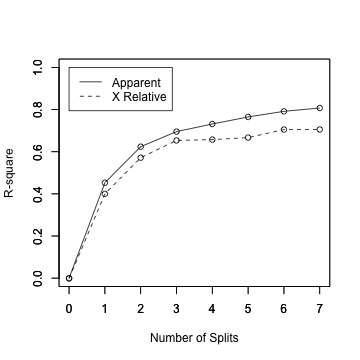
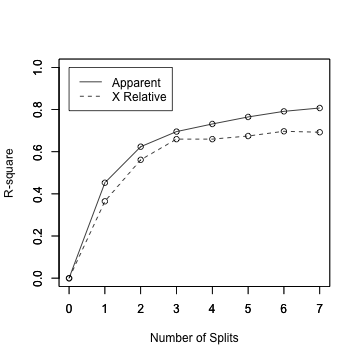
small edits

diff --git a/_posts/2015-12-28-ML-Trees-and_Ensembles.md b/_posts/2015-12-28-ML-Trees-and_Ensembles.md
@@ -11,6 +11,7 @@ categories: ['statistics', 'machine learning']
 
 
 ![tree](http://jnguyen92.github.io/nhuyhoa/figure/images/tree.png)
+
 A sample tree and how it cuts up the feature space. 
 
 # Decision Trees
@@ -40,16 +41,16 @@ Candidate splits on nominal features is quite simple. Features can be grouped by
 Candidate splits on numeric features requires a bit more thought. The numeric feature can be converted into categories by cutting/binning. The cutpoints could be defined as the median numeric value or any other threshold (depends on the algorithm).
 
 ### Information Gain
-Entropy (information) is defined as
+Entropy (information) is defined as <br>
 $$H(Y) = - \sum_{y \in values(Y)} P(y)log_2(P(y))$$
 
-The conditional entropy is defined as 
+The conditional entropy is defined as <br>
 $$H(Y \vert X) = \sum_{x \in values(Y)} P(X = x)H(Y \vert X = x)$$
 
-where
+where <br>
 $$H(Y \vert X = x) = - \sum_{y \in values(Y)} P(Y = y \vert X = x) log_2( P(Y = y \vert X = x) ) $$
 
-Information gain is then defined as
+Information gain is then defined as <br>
 $$InfoGain(D, S) = H_D(Y) - H_D(Y \vert S)$$
 
 The split $$S$$ that most reduces the conditional entropy of $$Y$$ for training set $$D$$ is chosen as the split.
@@ -68,7 +69,7 @@ In order to prevent overfitting, trees can be pruned (removal of internal nodes)
 
 **Another Algorithm:**
 
-Let 
+Let <br>
 $$ \sum^{\vert T \vert}_{m = 1} \sum_{i: x_i \in R_m} (y_i - \hat{y}_{R_m})^2 + \alpha \vert T \vert$$
 
 where $$\alpha >= 0$$, $$\vert T \vert$$ is the number of terminal nodes in subtree, $$R_m$$ is the subset of predictor space corresponding to the $$m^{th}$$ terminal node, and $$\hat{y}_{R_m}$$ is the mean of the training observations in $$R_m$$.
@@ -143,7 +144,7 @@ The tuning parameter $$i$$ can be chosen by cross-validation. Typically we choos
 Because it samples from all possible features, random forests can handle a large number of features. It can also reduce overfitting drastically.
 
 ## Boosting
-Boosting is a class of ensemble methods that sequentially produces multiple weak classifiers, where each classifier is dependent on the previous ones. Examples that are misclassfified by previous classifiers become more important in the next classifier. The classifiers can be combined to get
+Boosting is a class of ensemble methods that sequentially produces multiple weak classifiers, where each classifier is dependent on the previous ones. Examples that are misclassfified by previous classifiers become more important in the next classifier. The classifiers can be combined to get <br>
 $$C(x) = \theta (\sum_i w_i h_i(x) + b)$$
 
 where $$w_i$$ is the weight and $$h_i(x)$$ is the classifier. 
@@ -240,12 +241,12 @@ printcp(c_tree)
 ##         CP nsplit rel error  xerror     xstd
 ## 1 0.286585      0   1.00000 1.00000 0.059980
 ## 2 0.109756      1   0.71341 0.71341 0.055477
-## 3 0.045732      2   0.60366 0.67683 0.054606
-## 4 0.036585      4   0.51220 0.68293 0.054756
-## 5 0.027439      5   0.47561 0.67073 0.054453
-## 6 0.024390      7   0.42073 0.67683 0.054606
-## 7 0.012195      8   0.39634 0.62805 0.053324
-## 8 0.010000     10   0.37195 0.64024 0.053658
+## 3 0.045732      2   0.60366 0.60366 0.052629
+## 4 0.036585      4   0.51220 0.59756 0.052450
+## 5 0.027439      5   0.47561 0.63415 0.053492
+## 6 0.024390      7   0.42073 0.64634 0.053821
+## 7 0.012195      8   0.39634 0.61585 0.052981
+## 8 0.010000     10   0.37195 0.62805 0.053324
 {% endhighlight %}
 
 
@@ -285,14 +286,14 @@ rsq.rpart(r_tree)
 ## n= 506 
 ## 
 ##         CP nsplit rel error  xerror     xstd
-## 1 0.452744      0   1.00000 1.00192 0.082892
-## 2 0.171172      1   0.54726 0.60004 0.056477
-## 3 0.071658      2   0.37608 0.42819 0.047968
-## 4 0.036164      3   0.30443 0.34628 0.043375
-## 5 0.033369      4   0.26826 0.34240 0.045057
-## 6 0.026613      5   0.23489 0.33286 0.044706
-## 7 0.015851      6   0.20828 0.29471 0.041190
-## 8 0.010000      7   0.19243 0.29442 0.042684
+## 1 0.452744      0   1.00000 1.00118 0.082865
+## 2 0.171172      1   0.54726 0.63523 0.058211
+## 3 0.071658      2   0.37608 0.43839 0.047982
+## 4 0.036164      3   0.30443 0.34014 0.043407
+## 5 0.033369      4   0.26826 0.34015 0.043840
+## 6 0.026613      5   0.23489 0.32543 0.043135
+## 7 0.015851      6   0.20828 0.30294 0.041830
+## 8 0.010000      7   0.19243 0.30743 0.045759
 {% endhighlight %}
 
 <img src="/nhuyhoa/figure/source/2015-12-28-ML-Trees-and_Ensembles/unnamed-chunk-3-4.png" title="plot of chunk unnamed-chunk-3" alt="plot of chunk unnamed-chunk-3" style="display: block; margin: auto;" /><img src="/nhuyhoa/figure/source/2015-12-28-ML-Trees-and_Ensembles/unnamed-chunk-3-5.png" title="plot of chunk unnamed-chunk-3" alt="plot of chunk unnamed-chunk-3" style="display: block; margin: auto;" />
@@ -349,8 +350,8 @@ forest
 ##                      Number of trees: 500
 ## No. of variables tried at each split: 5
 ## 
-##           Mean of squared residuals: 9.885843
-##                     % Var explained: 88.29
+##           Mean of squared residuals: 9.614215
+##                     % Var explained: 88.61
 {% endhighlight %}
 
 
@@ -364,19 +365,19 @@ importance(forest)
 
 {% highlight text %}
 ##           %IncMSE IncNodePurity
-## crim    15.053831     2135.7979
-## zn       3.278734      166.2610
-## indus   11.014930     2462.4439
-## chas     2.367985      204.0354
-## nox     18.273655     2523.6270
-## rm      41.742035    13994.7454
-## age     13.472350      986.0788
-## dis     19.464800     2474.3558
-## rad      5.709023      254.8100
-## tax     11.690232     1087.6371
-## ptratio 13.367879     2398.9058
-## black   10.020223      679.5851
-## lstat   32.637009    12777.5813
+## crim    15.919896     2225.9648
+## zn       2.875458      194.2194
+## indus   11.628814     2294.4790
+## chas     4.070903      184.4996
+## nox     18.806482     2586.4704
+## rm      40.947421    13561.7846
+## age     11.390095      965.6755
+## dis     19.738172     2557.0158
+## rad      5.599781      259.1701
+## tax     13.184418      978.9941
+## ptratio 16.281618     2328.2015
+## black   11.070777      693.8544
+## lstat   31.791734    13400.6049
 {% endhighlight %}
 
 **Boosting**
@@ -396,18 +397,18 @@ summary(boost)
 
 {% highlight text %}
 ##             var    rel.inf
-## lstat     lstat 38.8798512
-## rm           rm 29.2957761
-## dis         dis  9.1713820
-## crim       crim  4.6805115
-## nox         nox  4.5816838
-## age         age  3.4429170
-## ptratio ptratio  3.2217680
-## black     black  2.9842227
-## tax         tax  1.6365654
-## indus     indus  0.7658244
-## rad         rad  0.6719766
-## chas       chas  0.5390857
-## zn           zn  0.1284357
+## lstat     lstat 38.4199786
+## rm           rm 30.3226189
+## dis         dis  8.6082907
+## crim       crim  4.6026800
+## nox         nox  4.2084560
+## age         age  3.8403144
+## ptratio ptratio  3.3673248
+## black     black  2.7298314
+## tax         tax  1.7629793
+## indus     indus  0.7435584
+## rad         rad  0.6652862
+## chas       chas  0.5833110
+## zn           zn  0.1453703
 {% endhighlight %}
 

diff --git a/_posts/2016-01-31-Neural-Networks.md b/_posts/2016-01-31-Neural-Networks.md
@@ -17,9 +17,9 @@ One of many potential neural network models.
 
 The $$x$$s refer to input variables. Each layer has a bias or intercept term. Every node has an outgoing weight/arrow, we will call these $$\theta_{ii}$$. These weight determine the effect of the previous node to the target node. The output node gives the final function estimate. 
 
-The internal nodes are computed using the previous nodes. For instance  
-$$a_1^{(1)} = g(x^T\theta_1^{(1)})$$  
-$$a_2^{(1)} = g(x^T\theta_2^{(1)})$$  
+The internal nodes are computed using the previous nodes. For instance <br>
+$$a_1^{(1)} = g(x^T\theta_1^{(1)})$$ <br>
+$$a_2^{(1)} = g(x^T\theta_2^{(1)})$$ <br>
 $$h(x) = a_1^{(2)} = g((a^{(1)})^T\theta_1^{(2)})$$
 
 The matrix $$\theta^{(i)}$$ represent the weights controlling the function mapping for a given layer. The function $$g$$ here can vary (identity, sigmoid/logistic, etc).
@@ -29,16 +29,16 @@ Models can also have multiple output units. One situation in which this is usefu
 # Forward Propagation
 Forward propagation starts at the input layer and proceeds through the layers to obtain the final result. 
 
-For the example in the model above, we calculate  
-$$a_1^{(1)} = g(x^T\theta_1^{(1)})$$  
-$$a_2^{(1)} = g(x^T\theta_2^{(1)})$$  
+For the example in the model above, we calculate <br>
+$$a_1^{(1)} = g(x^T\theta_1^{(1)})$$ <br>
+$$a_2^{(1)} = g(x^T\theta_2^{(1)})$$<br>
 $$h(x) = a_1^{(2)} = g((a^{(1)})^T\theta_1^{(2)})$$
 
 # Backward Propagation
 The weights $$\theta_{ii}$$ can be learned via the backpropagation algorithm. 
 
-The error of each layer is expressed as  
-$$\delta_j^{(L)} = a_j^{(L)} - y_j$$  
+The error of each layer is expressed as <br>
+$$\delta_j^{(L)} = a_j^{(L)} - y_j$$ <br>
 $$\delta^{(l)} = (\theta^{(l)})^T \delta^{(l + 1)} *  g'((a^{(l-1)})^T\theta^{(l-1)})$$
 
 
